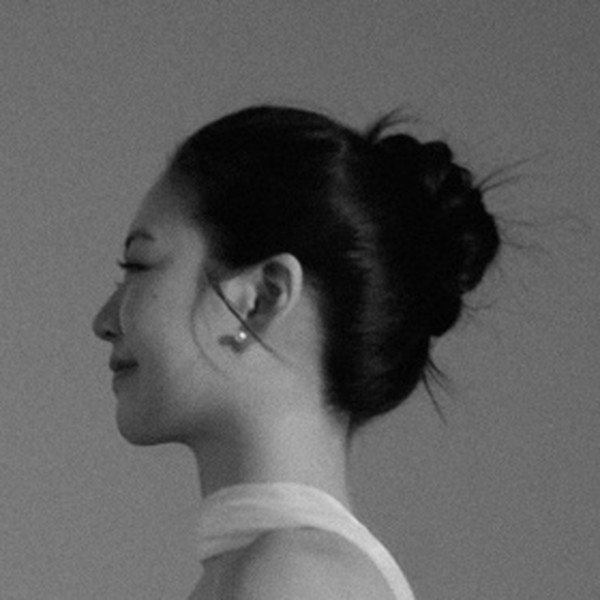
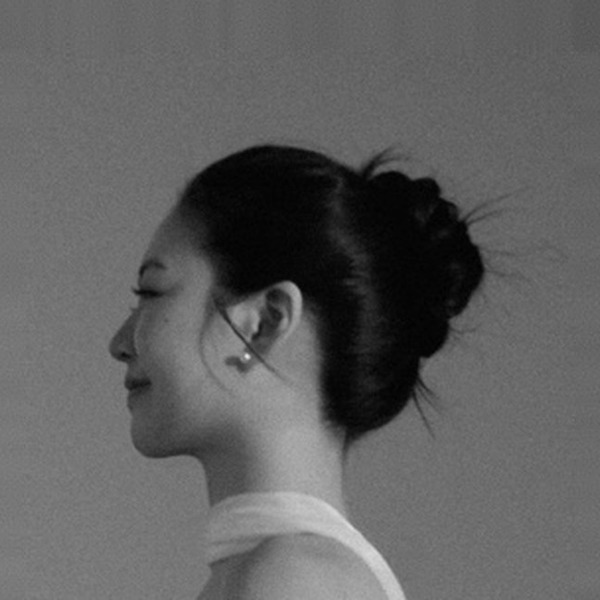
신부 프로필 사진 미세 줌아웃(배경 확장 0.92)·푸터 두 반지 아이콘·카피라이트 소문자

diff --git a/index.html b/index.html
@@ -869,12 +869,12 @@ details[open] .chev{transform:translateY(2px) rotate(225deg);}
   text-indent:.16em;
   color:#c2bdb6;
 }
-/* 푸터 두 이름 사이의 다이아반지(솔리테어) — 반지 위에 세팅된 다이아몬드 라인 아트 */
+/* 푸터 두 이름 사이의 두 반지(인터락) — 다이아몬드가 세팅된 큰 반지 + 작은 반지, 주변 반짝이 */
 .rings{
   display:inline-block;
-  width:.70em;height:.95em;
-  margin:0 .40em 0 .32em;
-  vertical-align:-.16em;
+  width:1.30em;height:.80em;
+  margin:0 .34em 0 .26em;
+  vertical-align:-.14em;
   color:#8c857d;
 }
 .rings svg{display:block;width:100%;height:100%;overflow:visible;}
@@ -1002,7 +1002,7 @@ details[open] .chev{transform:translateY(2px) rotate(225deg);}
           </div>
           <div>
             <div class="portrait-label">Bride</div>
-            <div class="portrait"><img src="photos/bride.jpg" alt="신부 임해인"></div>
+            <div class="portrait"><img src="photos/bride.jpg?v=2" alt="신부 임해인"></div>
             <p class="portrait-name">해인</p>
           </div>
         </div>
@@ -1280,13 +1280,30 @@ details[open] .chev{transform:translateY(2px) rotate(225deg);}
         </button>
       </div>
 
-      <p class="wordmark">JOOHA<span class="rings" aria-hidden="true"><svg viewBox="0 0 40 56" fill="none" stroke="currentColor" stroke-linecap="round" stroke-linejoin="round">
-        <circle cx="20" cy="38.5" r="13" stroke-width="1.7"/>
-        <path d="M14.4 5.8H25.6L30 14.2L20 25.8L10 14.2Z" stroke-width="1.7"/>
-        <path d="M10 14.2H30M20 14.2V25.8" stroke-width="1.1"/>
-        <path d="M35.4 1V7M32.4 4H38.4" stroke-width="1.2"/>
+      <p class="wordmark">JOOHA<span class="rings" aria-hidden="true"><svg viewBox="0 0 52 32" fill="none" stroke="currentColor" stroke-linecap="round" stroke-linejoin="round">
+        <!-- 큰 반지 + 다이아몬드 -->
+        <circle cx="18.5" cy="19.5" r="9.6" stroke-width="1.6"/>
+        <path d="M15.4 1.9H20.8L23.2 5.3L18.2 10.4L13.2 5.3Z" stroke-width="1.6"/>
+        <path d="M13.2 5.3H23.2" stroke-width="1.2"/>
+        <path d="M15.4 1.9L18.2 5.3L20.8 1.9" stroke-width="1.2"/>
+        <!-- 작은 반지: 위쪽 교차점에서 큰 반지 뒤로 지나가고, 아래쪽에서는 앞으로 나온다 -->
+        <mask id="ringBehind" maskUnits="userSpaceOnUse" x="0" y="0" width="52" height="32">
+          <rect x="0" y="0" width="52" height="32" fill="#fff"/>
+          <circle cx="27.5" cy="16.05" r="1.5" fill="#000"/>
+        </mask>
+        <circle cx="30.8" cy="22.2" r="7" stroke-width="1.6" mask="url(#ringBehind)"/>
+        <!-- 반짝이 -->
+        <path d="M8.2 2.0v3.2M6.6 3.6h3.2" stroke-width="1.1"/>
+        <path d="M28.6 1.2v3.0M27.1 2.7h3.0" stroke-width="1.1"/>
+        <path d="M9.6 25.8v2.8M8.2 27.2h2.8" stroke-width="1.1"/>
+        <path d="M43.4 7.2v2.6M42.1 8.5h2.6" stroke-width="1.1"/>
+        <circle cx="25.4" cy="7.4" r="0.55" fill="currentColor" stroke="none"/>
+        <circle cx="32.2" cy="6.6" r="0.5" fill="currentColor" stroke="none"/>
+        <circle cx="6.2" cy="13.4" r="0.5" fill="currentColor" stroke="none"/>
+        <circle cx="24.2" cy="29.7" r="0.45" fill="currentColor" stroke="none"/>
+        <circle cx="36.4" cy="29.8" r="0.45" fill="currentColor" stroke="none"/>
       </svg></span>HAEIN</p>
-      <p class="copyright">© 2027 CHOI JOOHA · YIM HAEIN. ALL RIGHTS RESERVED.</p>
+      <p class="copyright">© choi jooha · yim haein. all rights reserved.</p>
     </footer>
   </main>
 </div>
